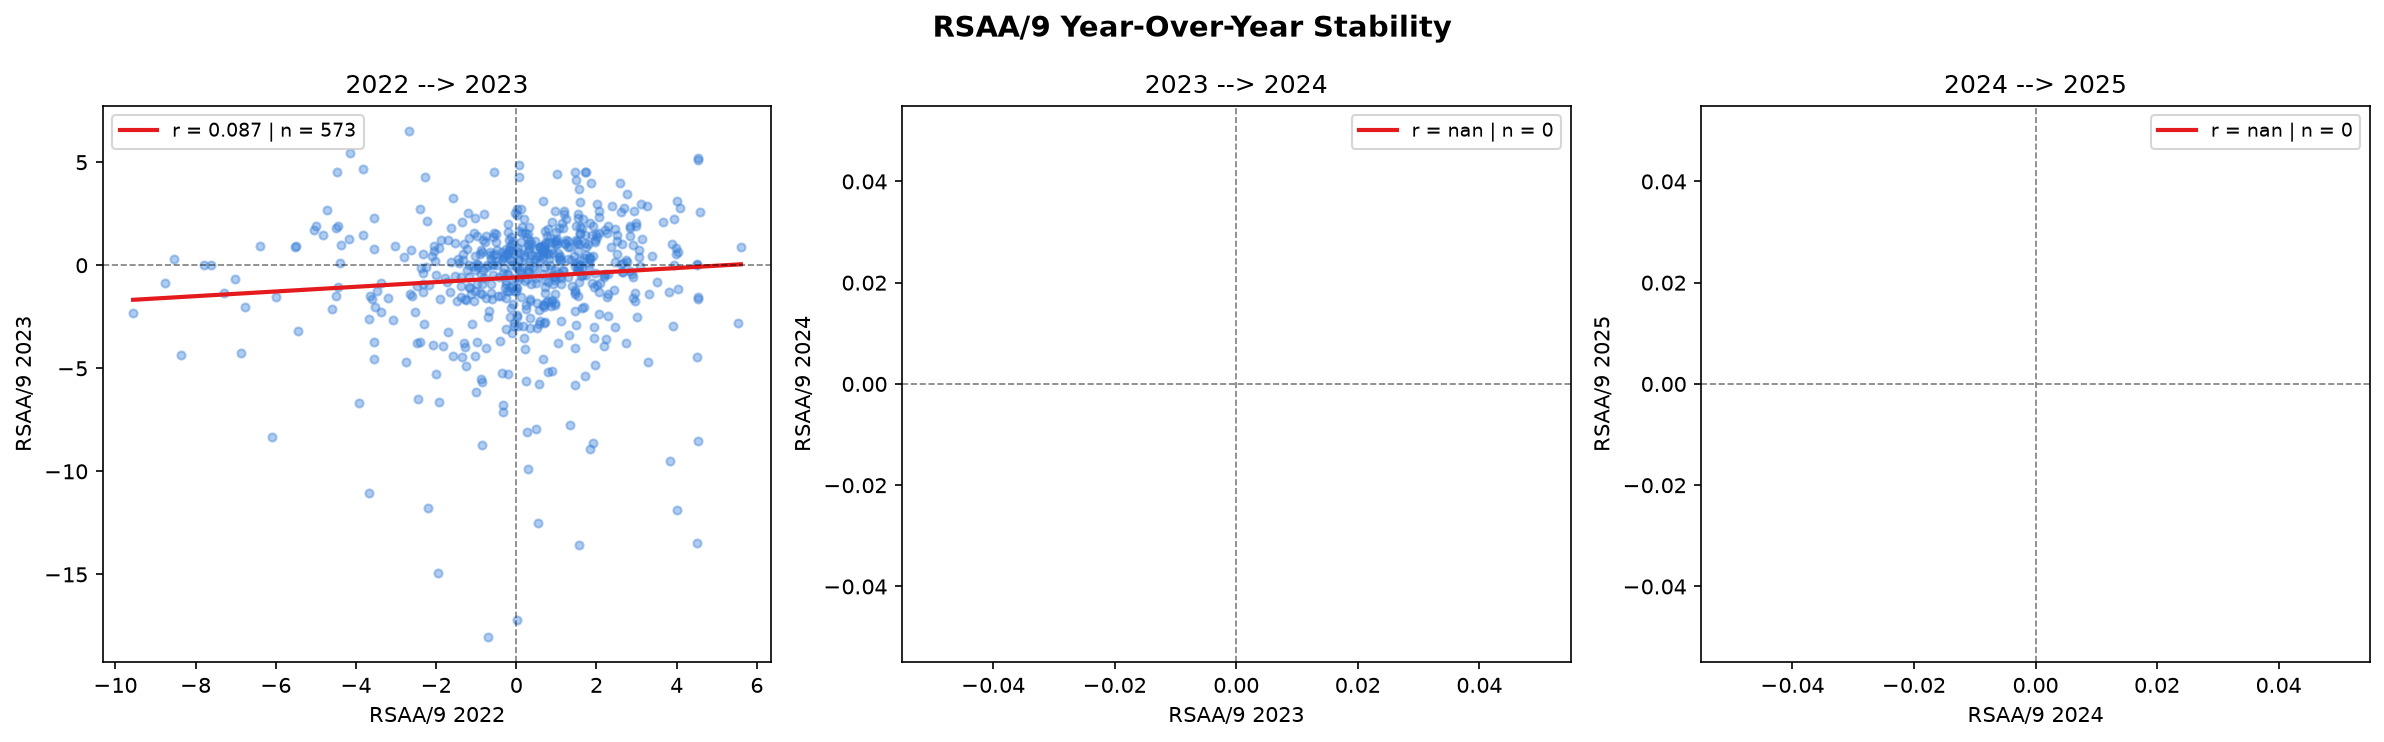
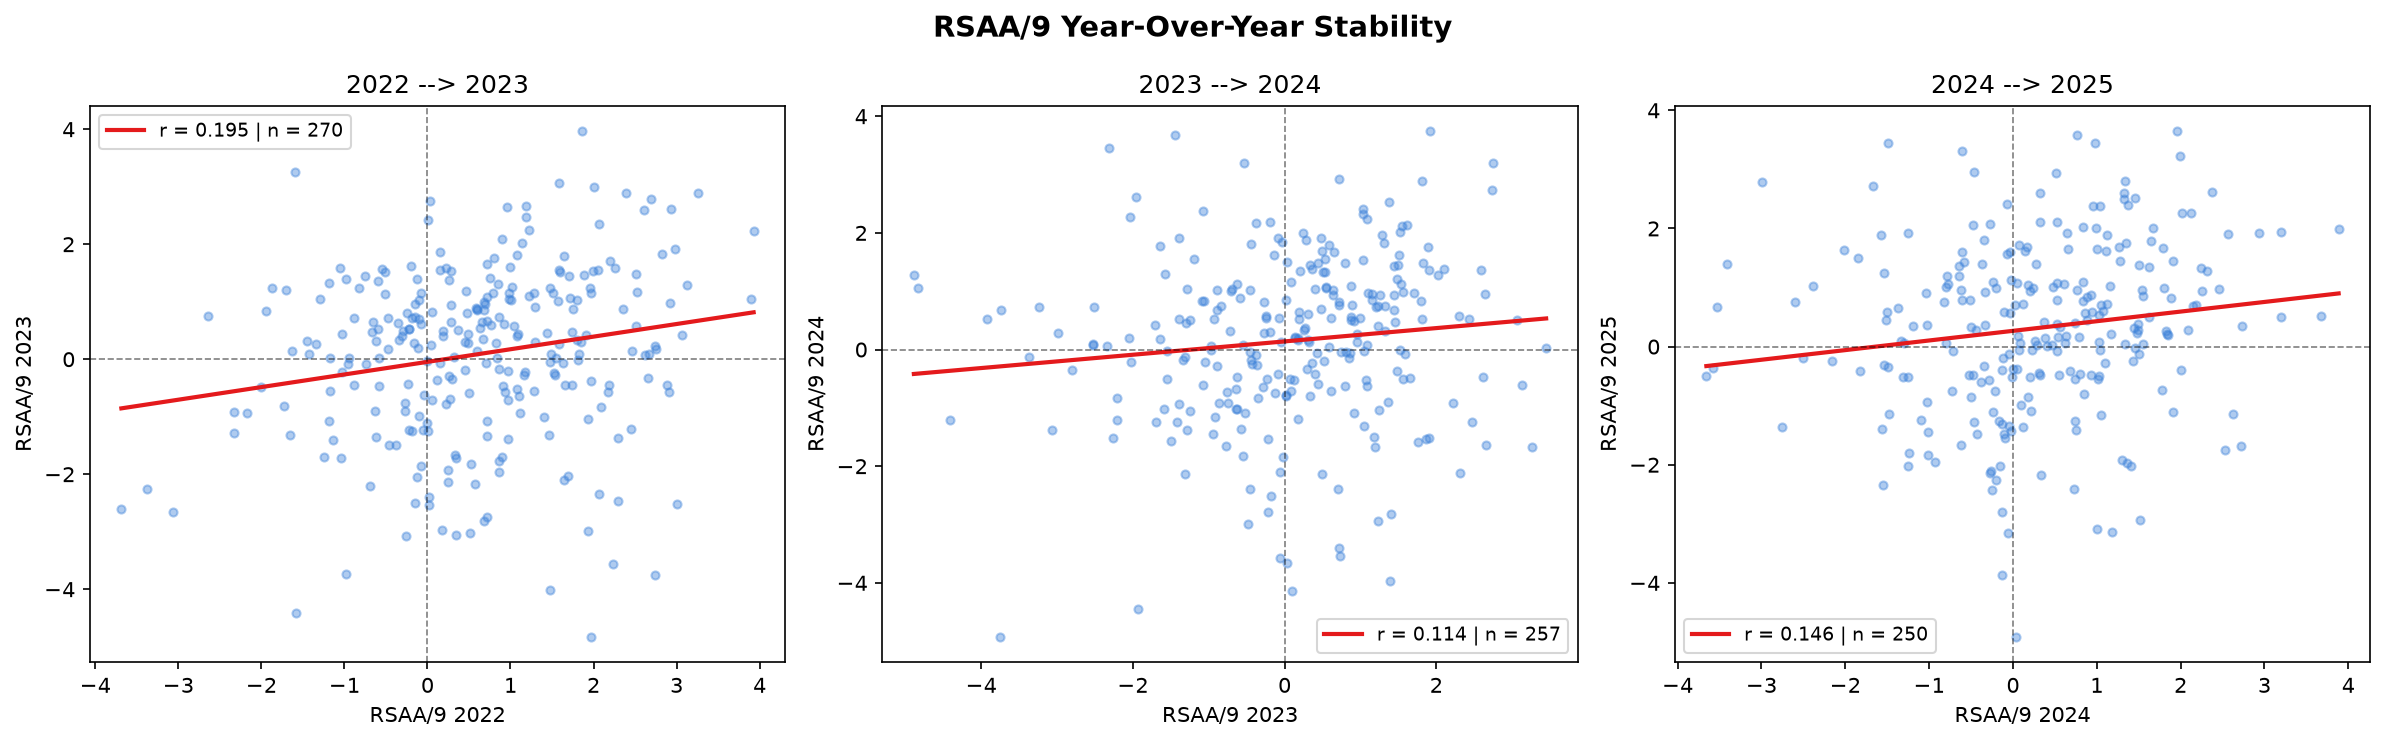
Fixed Validation Plot Bugs

diff --git a/rsaa_per_9_validation.py b/rsaa_per_9_validation.py
@@ -255,7 +255,7 @@ plt.close()
 
 print("\nChecking Year-Over-Year Stability:")
 
-rsaa_wide = rv_by_pitcher.pivot_table(
+rsaa_wide = rv_by_pitcher[rv_by_pitcher["ip_decimal"] >= 30].pivot_table(
     index = "pitcher",
     columns = "game_year",
     values = "runs_saved_above_avg_per_9"
@@ -270,21 +270,23 @@ year_pairs = [(2022, 2023), (2023, 2024), (2024, 2025)]
 
 for ax, (yr1, yr2) in zip(axes, year_pairs):
     if yr1 not in rsaa_wide.columns or yr2 not in rsaa_wide.columns:
+        ax.set_visible(False)
         continue
 
-    pair_df = rsaa_wide[[yr1, yr2]].dropna()
-    pair_df = pair_df[
-        (np.abs(stats.zscore(pair_df[yr1])) < 3) &
-        (np.abs(stats.zscore(pair_df[yr2])) < 3)
+    pair= rsaa_wide[[yr1, yr2]].dropna()
+
+    mask = pair[
+        (np.abs(stats.zscore(pair[yr1])) < 3) &
+        (np.abs(stats.zscore(pair[yr2])) < 3)
     ]
 
-    ax.scatter(pair_df[yr1], pair_df[yr2], alpha = 0.4, s = 15, color = "#377ED8")
-    slope, intercept, r, p , se = stats.linregress(pair_df[yr1], pair_df[yr2])
+    ax.scatter(pair[yr1], pair[yr2], alpha = 0.4, s = 15, color = "#377ED8")
+    slope, intercept, r, p , se = stats.linregress(pair[yr1], pair[yr2])
 
-    x_line = np.linspace(pair_df[yr1].min(), pair_df[yr1].max(), 100)
+    x_line = np.linspace(pair[yr1].min(), pair[yr1].max(), 100)
 
     ax.plot(x_line, slope * x_line + intercept,
-            color = "#E41A1C", linewidth = 2, label = f"r = {r:.3f} | n = {len(pair_df)}")
+            color = "#E41A1C", linewidth = 2, label = f"r = {r:.3f} | n = {len(pair)}")
 
     ax.axhline(0, color = "black", linestyle = "--", linewidth = 0.8, alpha = 0.5)
     ax.axvline(0, color = "black", linestyle = "--", linewidth = 0.8, alpha = 0.5)
@@ -295,11 +297,73 @@ for ax, (yr1, yr2) in zip(axes, year_pairs):
     ax.legend(fontsize = 9)
 
 plt.tight_layout()
+
 plt.savefig("outputs/validation/rsaa_yoy_stability.png",
             dpi = 150, bbox_inches = "tight")
 
 plt.close()
 print("Saved YoY")
+
+stuff_wide = stuff_pitcher[stuff_pitcher["total_pitches"] >= 100].pivot_table(
+     index = "pitcher",
+     columns = "game_year",
+     values = "weight_stuff_plus"
+).reset_index()
+
+fig, axes = plt.subplots(1, 3, figsize = (16, 5))
+
+fig.suptitle("Stuff+ Year-over-Year Stability",
+             fontsize = 14, fontweight = "bold")
+
+year_pairs = [(2022, 2023), (2023, 2024), (2024, 2025)]
+
+
+print(f"Stuff+ Year over Year Stability:")
+
+for ax, (yr1, yr2) in zip(axes, year_pairs):
+     if yr1 not in stuff_wide.columns or yr2 not in stuff_wide.columns:
+          ax.set_visible(False)
+          continue
+
+     pair = stuff_wide[[yr1, yr2]].dropna()
+
+     mask = (
+          (np.abs(stats.zscore(pair[yr1])) < 3) &
+          (np.abs(stats.zscore(pair[yr2])) < 3)
+     )
+
+     pair = pair[mask]
+
+     ax.scatter(pair[yr1], pair[yr2], alpha = 0.4, s = 15, color = "#377ED8")
+
+     slope, intercept, r, p , se = stats.linregress(pair[yr1], pair[yr2])
+
+     x_line = np.linspace(pair[yr1].min(), pair[yr1].max(), 100)
+
+     ax.plot(x_line, slope * x_line + intercept,
+            color = "#E41A1C", linewidth = 2, label = f"r = {r:.3f} | n = {len(pair)}")
+
+     ax.axhline(100, color = "black", linestyle = "--", linewidth = 0.8, alpha = 0.5)
+
+     ax.axvline(100, color = "black", linestyle = "--", linewidth = 0.8, alpha = 0.5)
+
+     ax.set_xlabel(f"Stuff+ {yr1}")
+
+     ax.set_ylabel(f"Stuff+ {yr2}")
+
+     ax.set_title(f"{yr1} --> {yr2}")
+
+     ax.legend(fontsize = 9)
+
+     print(f" {yr1} --> {yr2}: r = {r:.3f} | n = {len(pair)}")
+
+plt.tight_layout()
+
+plt.savefig("outputs/validation/stuff+_yoy_stability.png",
+            dpi = 150, bbox_inches = "tight")
+
+plt.close()
+print("Saved YoY Stuff+")
 
 print("All validation plots saved to outputs/validation/")
 
